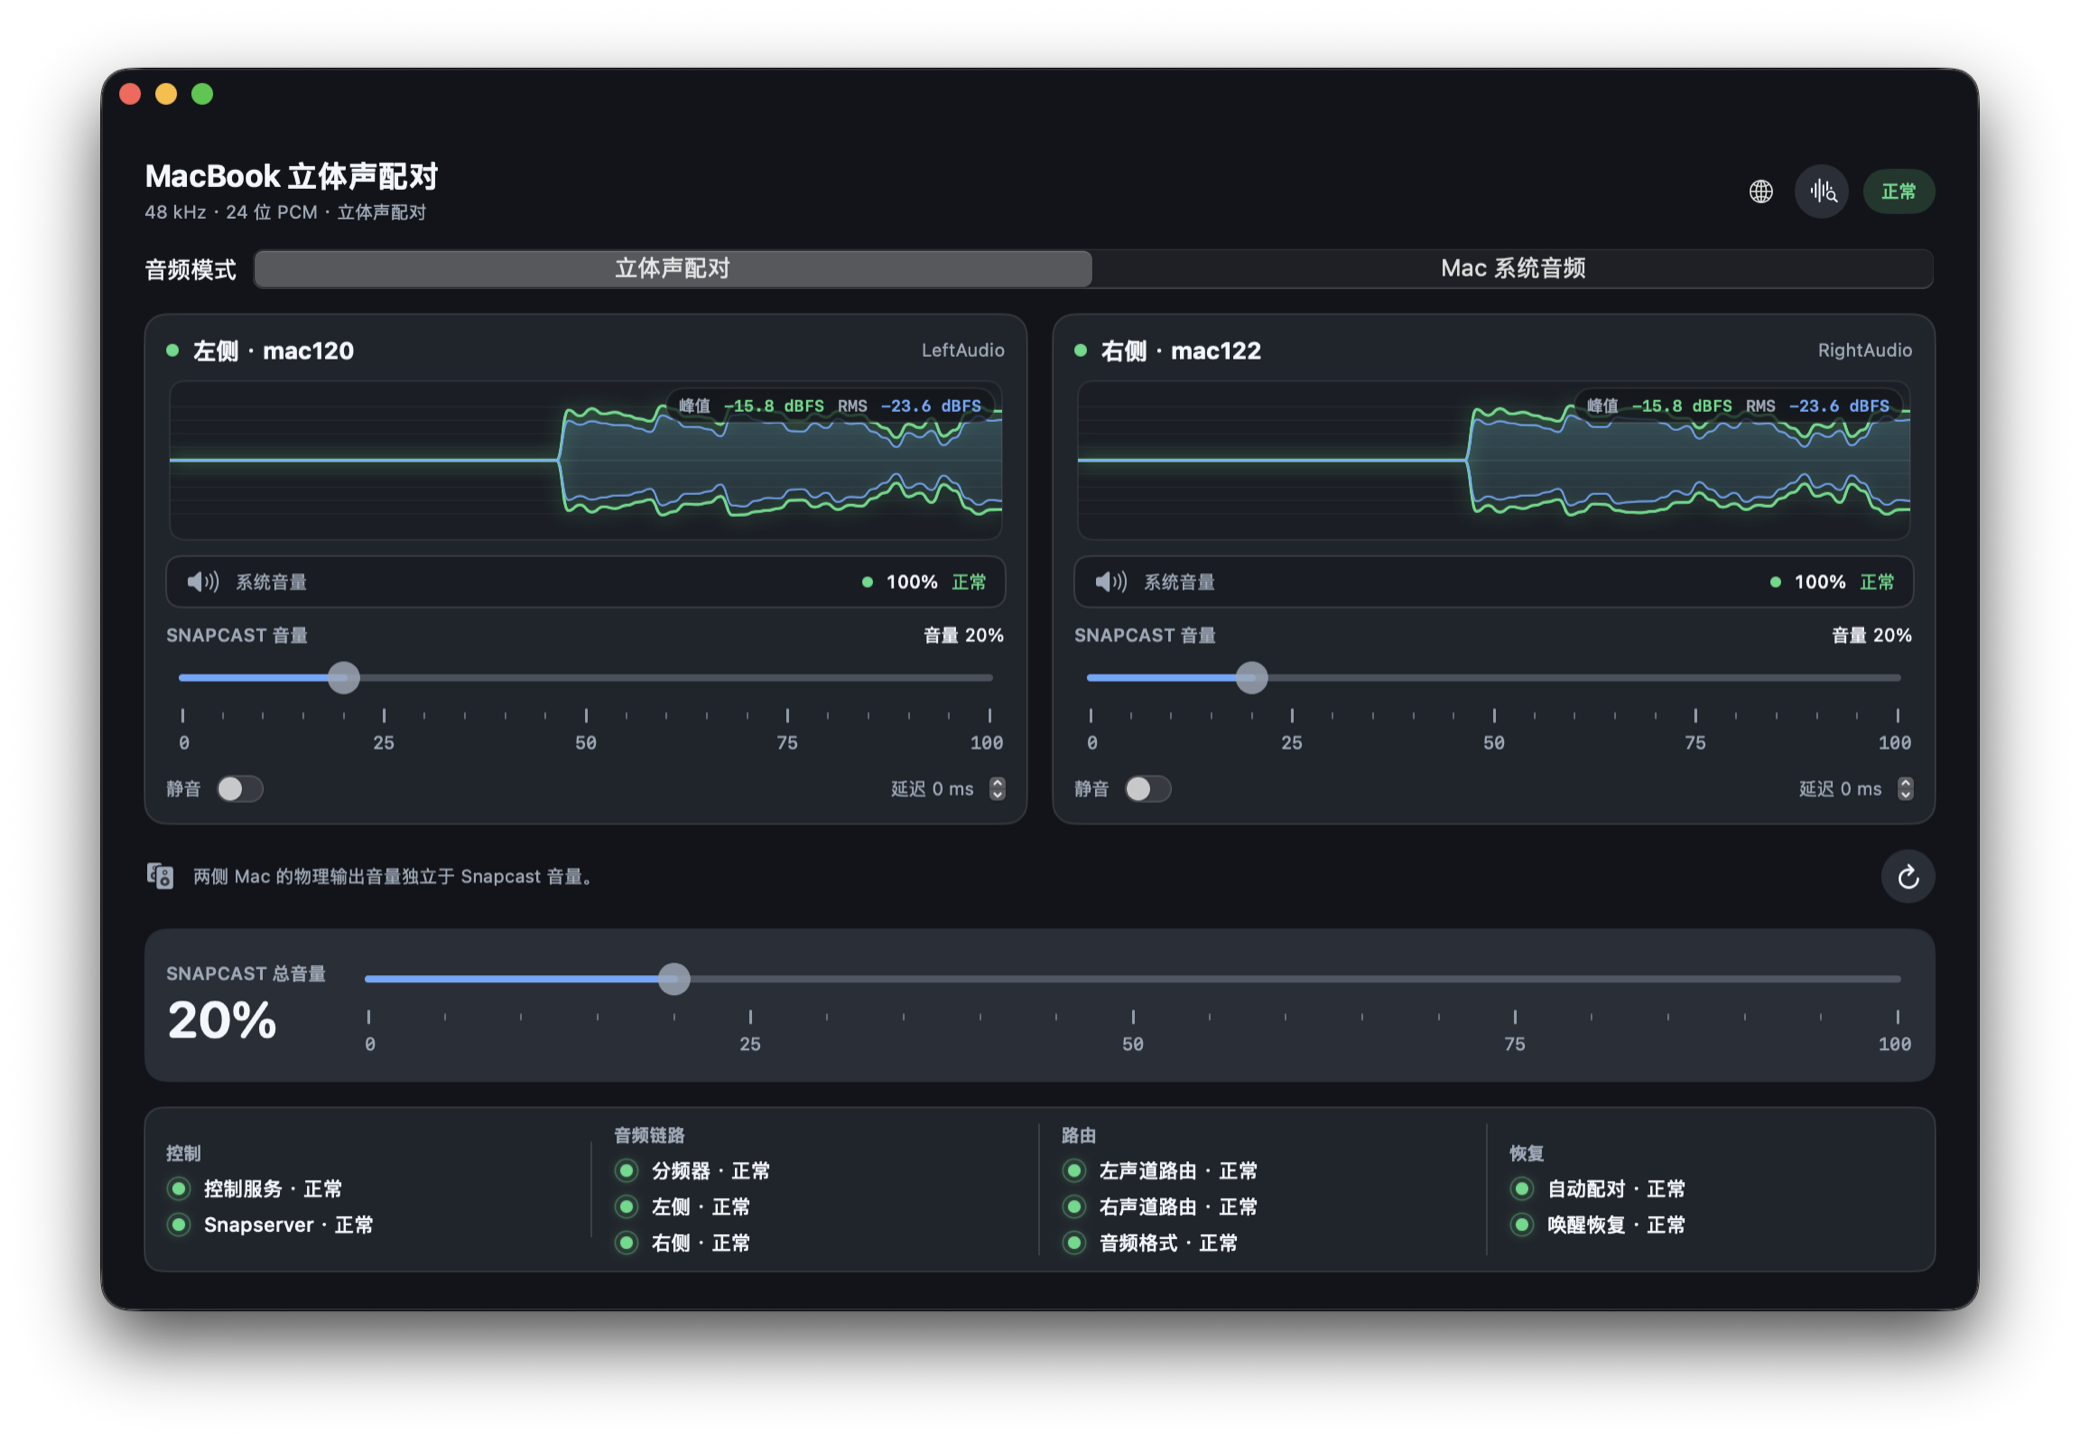
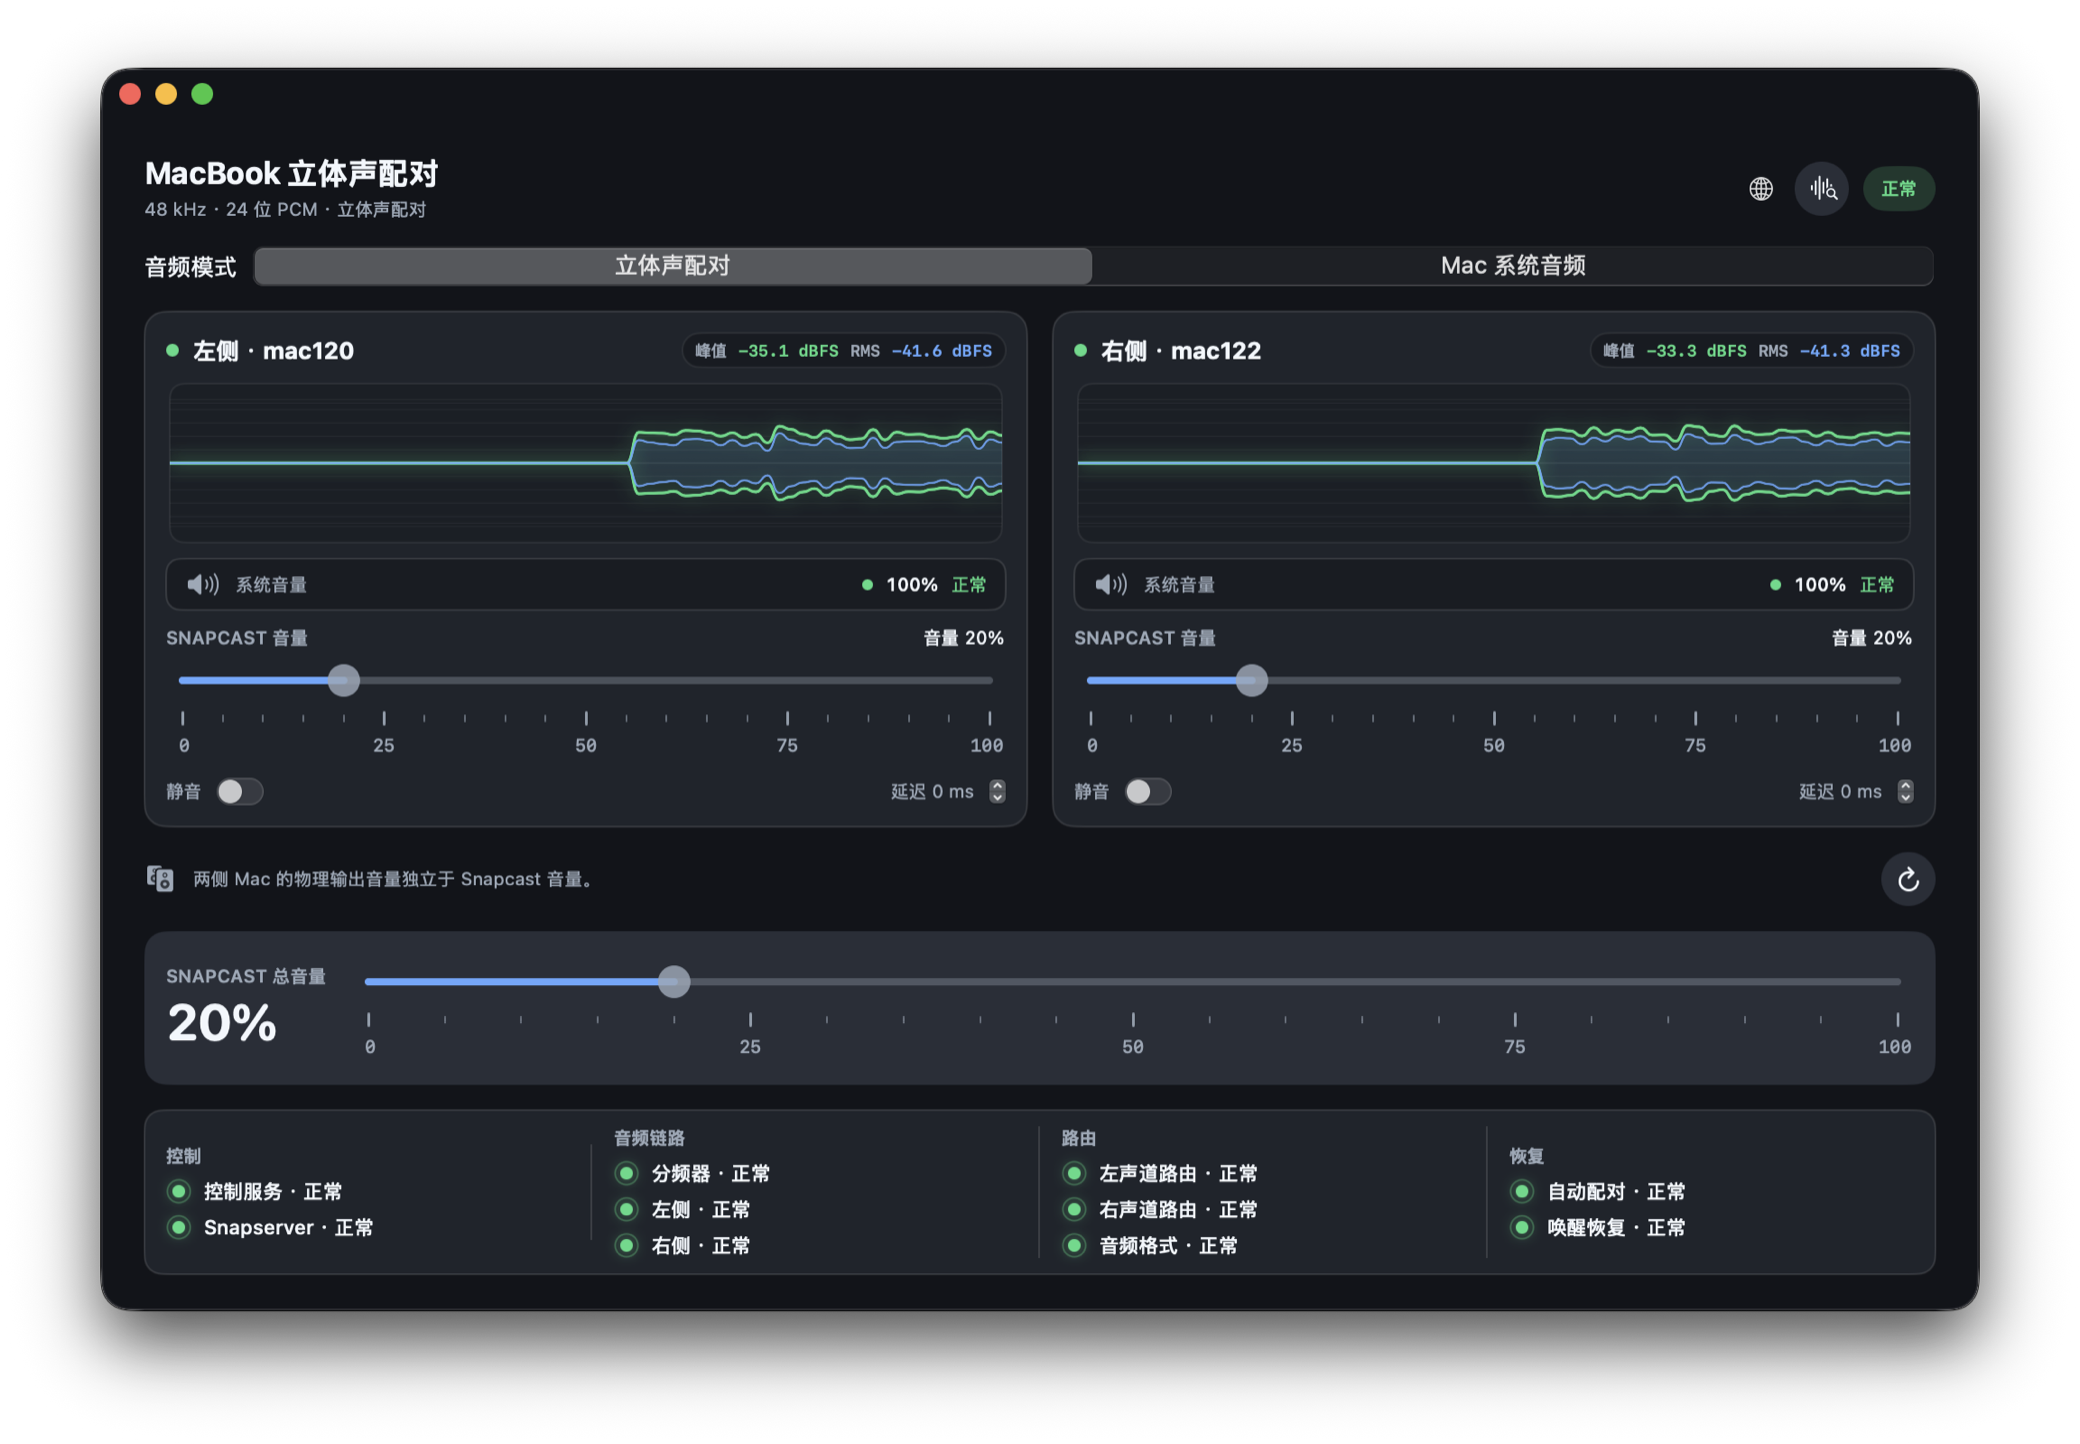
fix: sync waveform levels with channel volume

diff --git a/native/Sources/MacStereoPair/ChannelWaveform.swift b/native/Sources/MacStereoPair/ChannelWaveform.swift
@@ -2,18 +2,12 @@ import StereoPairCore
 import SwiftUI
 
 struct ChannelWaveform: View {
-    let channel: ChannelStatus?
-    @State private var history = WaveformHistory(capacity: 72, prefill: true)
+    let points: [WaveformHistory.Point]
     @EnvironmentObject private var language: AppLanguage
 
     var body: some View {
-        ZStack(alignment: .topTrailing) {
-            Canvas { context, size in
-                drawWaveform(context: &context, size: size)
-            }
-            levelReadout
-                .padding(.trailing, 4)
-                .padding(.top, 4)
+        Canvas { context, size in
+            drawWaveform(context: &context, size: size)
         }
         .frame(height: 88)
         .background(
@@ -25,57 +19,26 @@ struct ChannelWaveform: View {
             RoundedRectangle(cornerRadius: 8)
                 .stroke(Theme.separator.opacity(0.55))
         )
-        .onChange(of: channel) { _, channel in
-            history.append(
-                peakDb: channel?.peakDb ?? -120,
-                rmsDb: channel?.rmsDb ?? -120,
-                clipped: channel?.clipped ?? false
-            )
-        }
         .accessibilityElement()
         .accessibilityLabel(language.text("accessibility.realtimeWaveform"))
         .accessibilityValue(accessibilityValue)
     }
 
     private var accessibilityValue: String {
-        guard let peak = channel?.peakDb,
-              let rms = channel?.rmsDb else {
+        guard let point = points.last,
+              point.peak > 0,
+              point.rms > 0 else {
             return language.text("accessibility.noSignal")
         }
-        return language.format("accessibility.levelsFormat", peak, rms)
+        return language.format(
+            "accessibility.levelsFormat",
+            db(from: point.peak),
+            db(from: point.rms)
+        )
     }
 
-    private var levelReadout: some View {
-        HStack(spacing: 7) {
-            if isClipping {
-                Text(verbatim: language.text("waveform.clip"))
-                    .foregroundStyle(Theme.amber)
-            }
-            Text(verbatim: language.text("waveform.peak"))
-                .foregroundStyle(Theme.muted)
-            Text(verbatim: formattedDB(channel?.peakDb))
-                .foregroundStyle(isClipping ? Theme.amber : Theme.green)
-            Text(verbatim: language.text("waveform.rms"))
-                .foregroundStyle(Theme.muted)
-            Text(verbatim: formattedDB(channel?.rmsDb))
-                .foregroundStyle(Theme.blue)
-        }
-        .font(.system(size: 9, weight: .semibold, design: .monospaced))
-        .padding(.horizontal, 7)
-        .padding(.vertical, 4)
-        .background(Theme.background.opacity(0.76))
-        .clipShape(Capsule())
-        .overlay(Capsule().stroke(Theme.separator.opacity(0.65)))
-    }
-
-    private func formattedDB(_ value: Double?) -> String {
-        guard let value, value > -119 else { return "— dBFS" }
-        return String(format: "%.1f dBFS", value)
-    }
-
-    private var isClipping: Bool {
-        channel?.clipped == true ||
-            history.points.contains(where: \.clipped)
+    private func db(from normalized: Double) -> Double {
+        normalized * 60 - 60
     }
 
     private func drawWaveform(
@@ -83,9 +46,9 @@ struct ChannelWaveform: View {
         size: CGSize
     ) {
         let center = size.height / 2
-        let points = max(history.capacity, 2)
-        let step = size.width / CGFloat(points - 1)
-        let visible = history.points
+        let sampleCount = max(points.count, 2)
+        let step = size.width / CGFloat(sampleCount - 1)
+        let visible = points
         let halfHeight = center * 0.84
 
         drawGrid(
@@ -118,14 +81,12 @@ struct ChannelWaveform: View {
             halfHeight: halfHeight
         )
         let clipping = visible.contains(where: \.clipped)
-        let peakColor = clipping ? Theme.amber : Theme.green
+        let lineGradient = peakLineGradient(clipping: clipping)
+        let fillGradient = peakFillGradient(clipping: clipping)
 
         let fillContext = context
         fillContext.fill(peakEnvelope.area, with: .linearGradient(
-            Gradient(colors: [
-                peakColor.opacity(0.18),
-                peakColor.opacity(0.025)
-            ]),
+            fillGradient,
             startPoint: CGPoint(x: 0, y: 0),
             endPoint: CGPoint(x: 0, y: size.height)
         ))
@@ -140,9 +101,17 @@ struct ChannelWaveform: View {
         ))
 
         var glowContext = context
-        glowContext.addFilter(.shadow(color: peakColor.opacity(0.55), radius: 5))
-        glowContext.stroke(peakEnvelope.upper, with: .color(peakColor), lineWidth: 1.6)
-        glowContext.stroke(peakEnvelope.lower, with: .color(peakColor), lineWidth: 1.6)
+        let accent = clipping
+            ? Theme.red
+            : (points.last.map { peakColor(for: $0.peak) } ?? Theme.green)
+        glowContext.addFilter(.shadow(color: accent.opacity(0.5), radius: 5))
+        let stroke = GraphicsContext.Shading.linearGradient(
+            lineGradient,
+            startPoint: CGPoint(x: 0, y: 0),
+            endPoint: CGPoint(x: 0, y: size.height)
+        )
+        glowContext.stroke(peakEnvelope.upper, with: stroke, lineWidth: 1.6)
+        glowContext.stroke(peakEnvelope.lower, with: stroke, lineWidth: 1.6)
 
         context.stroke(rmsEnvelope.upper, with: .color(Theme.blue.opacity(0.9)), lineWidth: 1.1)
         context.stroke(rmsEnvelope.lower, with: .color(Theme.blue.opacity(0.9)), lineWidth: 1.1)
@@ -159,8 +128,8 @@ struct ChannelWaveform: View {
         center: CGFloat,
         halfHeight: CGFloat
     ) {
-        for db in [-48.0, -36.0, -24.0, -12.0] {
-            let level = CGFloat((db + 60) / 60)
+        for db in [-48.0, -36.0, -24.0, -12.0, -6.0, -3.0] {
+            let level = CGFloat(normalized(db))
             for y in [center - level * halfHeight, center + level * halfHeight] {
                 var line = Path()
                 line.move(to: CGPoint(x: 0, y: y))
@@ -172,6 +141,57 @@ struct ChannelWaveform: View {
                 )
             }
         }
+    }
+
+    private func normalized(_ db: Double) -> Double {
+        min(1, max(0, (db + 60) / 60))
+    }
+
+    private func peakLineGradient(clipping: Bool) -> Gradient {
+        if clipping {
+            return Gradient(colors: [
+                Theme.red,
+                Theme.red,
+                Theme.amber,
+                Theme.green,
+                Theme.green,
+                Theme.amber,
+                Theme.red,
+                Theme.red
+            ])
+        }
+        return Gradient(stops: [
+            .init(color: Theme.red, location: 0),
+            .init(color: Theme.red, location: 0.035),
+            .init(color: Theme.amber, location: 0.10),
+            .init(color: Theme.amber, location: 0.15),
+            .init(color: Theme.green, location: 0.22),
+            .init(color: Theme.green, location: 0.78),
+            .init(color: Theme.amber, location: 0.85),
+            .init(color: Theme.amber, location: 0.90),
+            .init(color: Theme.red, location: 0.965),
+            .init(color: Theme.red, location: 1)
+        ])
+    }
+
+    private func peakFillGradient(clipping: Bool) -> Gradient {
+        if clipping {
+            return Gradient(colors: [
+                Theme.red.opacity(0.17),
+                Theme.amber.opacity(0.12),
+                Theme.green.opacity(0.08),
+                Theme.amber.opacity(0.12),
+                Theme.red.opacity(0.17)
+            ])
+        }
+        return Gradient(stops: [
+            .init(color: Theme.red.opacity(0.14), location: 0),
+            .init(color: Theme.amber.opacity(0.12), location: 0.16),
+            .init(color: Theme.green.opacity(0.08), location: 0.30),
+            .init(color: Theme.green.opacity(0.06), location: 0.70),
+            .init(color: Theme.amber.opacity(0.12), location: 0.84),
+            .init(color: Theme.red.opacity(0.14), location: 1)
+        ])
     }
 
     private func envelope(
@@ -222,5 +242,65 @@ struct ChannelWaveform: View {
         }
         area.closeSubpath()
         return (upper, lower, area)
+    }
+
+    private func peakColor(for peak: Double) -> Color {
+        if peak >= normalized(-3) {
+            return Theme.red
+        }
+        if peak >= normalized(-12) {
+            return Theme.amber
+        }
+        return Theme.green
+    }
+}
+
+struct WaveformLevelReadout: View {
+    let point: WaveformHistory.Point?
+    let clipped: Bool
+    @EnvironmentObject private var language: AppLanguage
+
+    var body: some View {
+        HStack(spacing: 6) {
+            if clipped {
+                Text(verbatim: language.text("waveform.clip"))
+                    .foregroundStyle(Theme.red)
+            }
+            Text(verbatim: language.text("waveform.peak"))
+                .foregroundStyle(Theme.muted)
+            Text(verbatim: formattedDB(point?.peak))
+                .foregroundStyle(peakAccent)
+            Text(verbatim: language.text("waveform.rms"))
+                .foregroundStyle(Theme.muted)
+            Text(verbatim: formattedDB(point?.rms))
+                .foregroundStyle(Theme.blue)
+        }
+        .font(.system(size: 9, weight: .semibold, design: .monospaced))
+        .padding(.horizontal, 7)
+        .padding(.vertical, 4)
+        .background(Theme.background.opacity(0.55))
+        .clipShape(Capsule())
+        .overlay(Capsule().stroke(Theme.separator.opacity(0.55)))
+        .lineLimit(1)
+        .fixedSize()
+    }
+
+    private var peakAccent: Color {
+        if clipped || (point?.peak ?? 0) >= normalized(-3) {
+            return Theme.red
+        }
+        if (point?.peak ?? 0) >= normalized(-12) {
+            return Theme.amber
+        }
+        return Theme.green
+    }
+
+    private func formattedDB(_ normalized: Double?) -> String {
+        guard let normalized, normalized > 0 else { return "— dBFS" }
+        return String(format: "%.1f dBFS", normalized * 60 - 60)
+    }
+
+    private func normalized(_ db: Double) -> Double {
+        min(1, max(0, (db + 60) / 60))
     }
 }

diff --git a/native/Sources/MacStereoPair/ConsoleView.swift b/native/Sources/MacStereoPair/ConsoleView.swift
@@ -200,6 +200,10 @@ private struct ChannelStrip: View {
     let hardwareVolume: HardwareVolumeStatus?
     @ObservedObject var model: ConsoleViewModel
     @EnvironmentObject private var language: AppLanguage
+    @State private var waveformHistory = WaveformHistory(
+        capacity: 72,
+        prefill: true
+    )
 
     private var publishedVolume: Double {
         Double(channel?.volume ?? 0)
@@ -220,10 +224,13 @@ private struct ChannelStrip: View {
                             : language.text("status.disconnected")
                     ))
                 Spacer()
-                Text(verbatim: channel?.streamId ?? "—").font(.caption).foregroundStyle(Theme.muted)
+                WaveformLevelReadout(
+                    point: waveformHistory.points.last,
+                    clipped: waveformClipping
+                )
             }
             ChannelWaveform(
-                channel: channel
+                points: waveformHistory.points
             )
                 .padding(.horizontal, 2)
             HardwareVolumeIndicator(
@@ -280,8 +287,21 @@ private struct ChannelStrip: View {
         .background(Theme.surface)
         .clipShape(RoundedRectangle(cornerRadius: 12))
         .overlay(RoundedRectangle(cornerRadius: 12).stroke(Theme.separator))
+        .onChange(of: channel) { _, channel in
+            waveformHistory.append(
+                peakDb: channel?.peakDb ?? -120,
+                rmsDb: channel?.rmsDb ?? -120,
+                volumePercent: channel?.volume ?? 0,
+                muted: channel?.muted ?? true,
+                clipped: channel?.clipped ?? false
+            )
+        }
     }
 
+    private var waveformClipping: Bool {
+        channel?.clipped == true ||
+            waveformHistory.points.contains(where: \.clipped)
+    }
 }
 
 private struct HardwareVolumeIndicator: View {

diff --git a/native/Tests/StereoPairCoreTests/WaveformHistoryTests.swift b/native/Tests/StereoPairCoreTests/WaveformHistoryTests.swift
@@ -42,4 +42,26 @@ final class WaveformHistoryTests: XCTestCase {
 
         XCTAssertEqual(history.points[0].peak, history.points[0].rms)
     }
+
+    func testWaveformHistoryAppliesChannelVolumeAndMute() {
+        var history = WaveformHistory(capacity: 2)
+
+        history.append(
+            peakDb: -6,
+            rmsDb: -12,
+            volumePercent: 50,
+            muted: false
+        )
+        history.append(
+            peakDb: -6,
+            rmsDb: -12,
+            volumePercent: 100,
+            muted: true
+        )
+
+        XCTAssertEqual(history.points[0].peak, 0.8, accuracy: 0.002)
+        XCTAssertEqual(history.points[0].rms, 0.7, accuracy: 0.002)
+        XCTAssertEqual(history.points[1].peak, 0)
+        XCTAssertEqual(history.points[1].rms, 0)
+    }
 }

diff --git a/native/Sources/StereoPairCore/WaveformHistory.swift b/native/Sources/StereoPairCore/WaveformHistory.swift
@@ -29,10 +29,16 @@ public struct WaveformHistory: Equatable, Sendable {
     public mutating func append(
         peakDb: Double,
         rmsDb: Double,
+        volumePercent: Int = 100,
+        muted: Bool = false,
         clipped: Bool = false
     ) {
-        let peak = normalized(peakDb)
-        let rms = min(peak, normalized(rmsDb))
+        let volume = min(100, max(0, volumePercent))
+        let volumeGainDB = muted || volume == 0
+            ? -120
+            : 20 * log10(Double(volume) / 100)
+        let peak = normalized(peakDb + volumeGainDB)
+        let rms = min(peak, normalized(rmsDb + volumeGainDB))
         if points.count == capacity {
             points.removeFirst()
         }

diff --git a/docs/native-console.md b/docs/native-console.md
@@ -162,6 +162,10 @@ trailing-debounced after release. Direct clicks jump the handle immediately and
 submit one coalesced update. Periodic status polling pauses during the drag,
 then resumes after the final value is acknowledged. The waveform is
 data-driven and does not add decorative motion unrelated to the audio level.
+The displayed envelopes and Peak/RMS readout apply the current Snapcast channel
+volume and mute state. High-level peaks move from green through amber toward
+red, while the readout sits in the channel title row so it never covers the
+waveform.
 The handle center, track endpoints, and scale marks use one shared inset
 geometry, so the handle is centered on the active scale position at every
 volume.

diff --git a/CHANGELOG.md b/CHANGELOG.md
@@ -14,6 +14,9 @@
 - Redraw the channel waveforms as stable audio instruments with separate Peak
   and RMS envelopes, dB reference grids, live dBFS readouts, and clipping-aware
   color instead of decorative time-based motion.
+- Make waveform levels follow per-channel Snapcast volume and mute state, move
+  the Peak/RMS readout into the channel title row, and use green-to-amber-to-red
+  peak coloring as levels approach full scale.
 - Make Snapcast volume sliders track continuously at pointer resolution while
   serializing throttled audio previews, coalescing click updates, and committing
   the final rounded percentage after release. Periodic status updates pause
